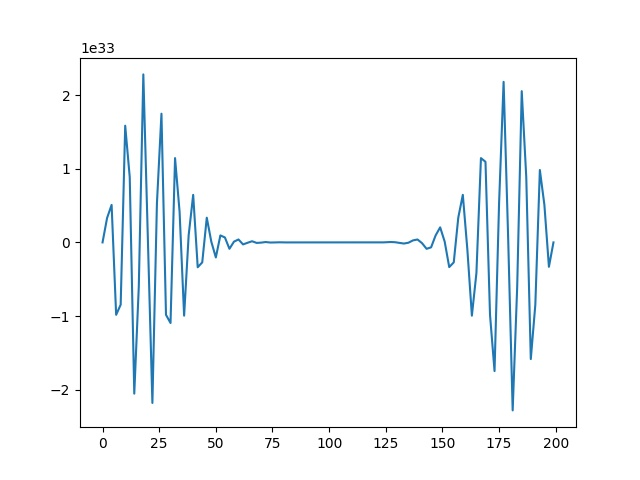
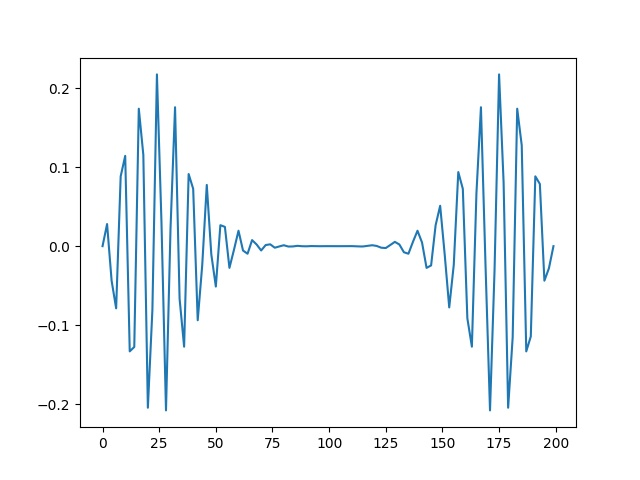
parallel

diff --git a/py_ver/well.py b/py_ver/well.py
@@ -40,7 +40,7 @@ while(Tol>0):
         else:
             dY[i] += ddY[i]*dx
     for i in range(L):
-        Y[i] += dY[i]*dx/2
+        Y[i] += dY[i]*dx
         #if dY[i]*dx < Tol:
         #    break
     print(str(Tol)+"/5000",end='\r')
@@ -48,7 +48,12 @@ while(Tol>0):
     #    if(Max < np.abs(Y[i]-tmp_Y[i])):
     #        Max = np.abs(Y[i]-tmp_Y[i])
     #        print(Max)
-
+sum = 0
+for i in range(L):
+    sum += Y[i]**2
+sum = sum**(0.5)
+Y = Y/(sum)
+print("A = "+str(float(sum)),end='\n')
 plt.plot(Y)
 #plt.plot(ddY)
 plt.savefig('well.jpg')
